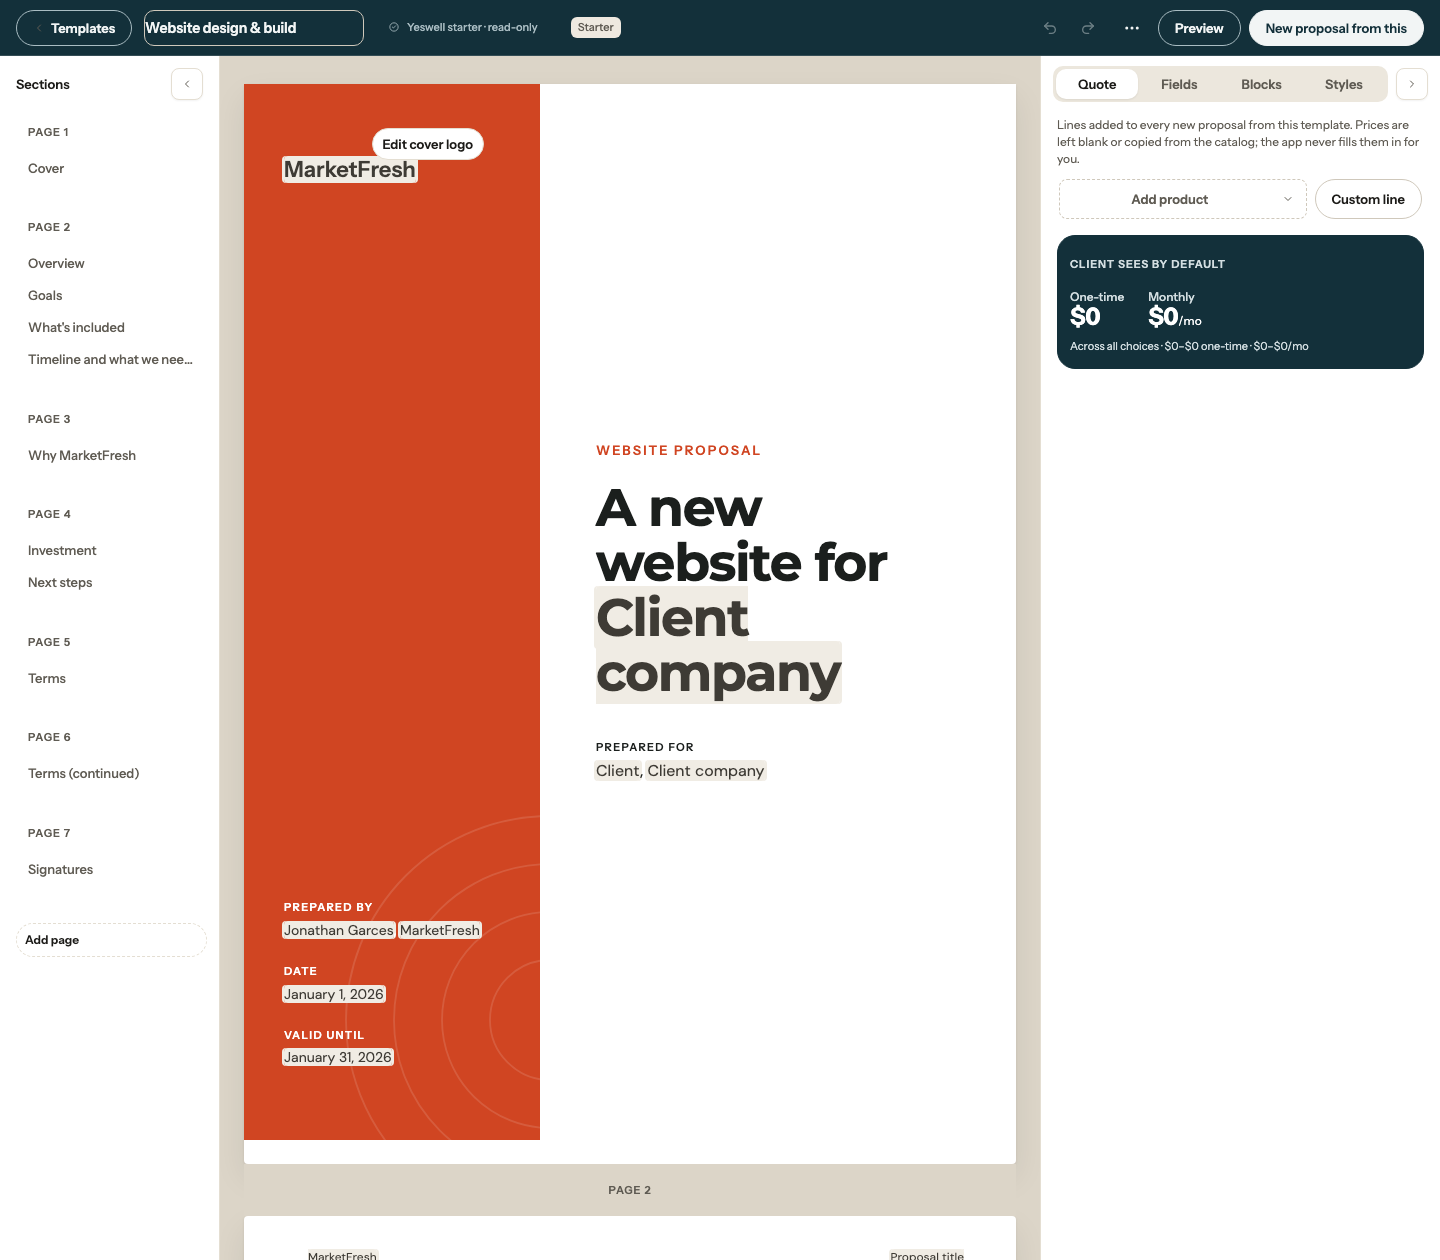
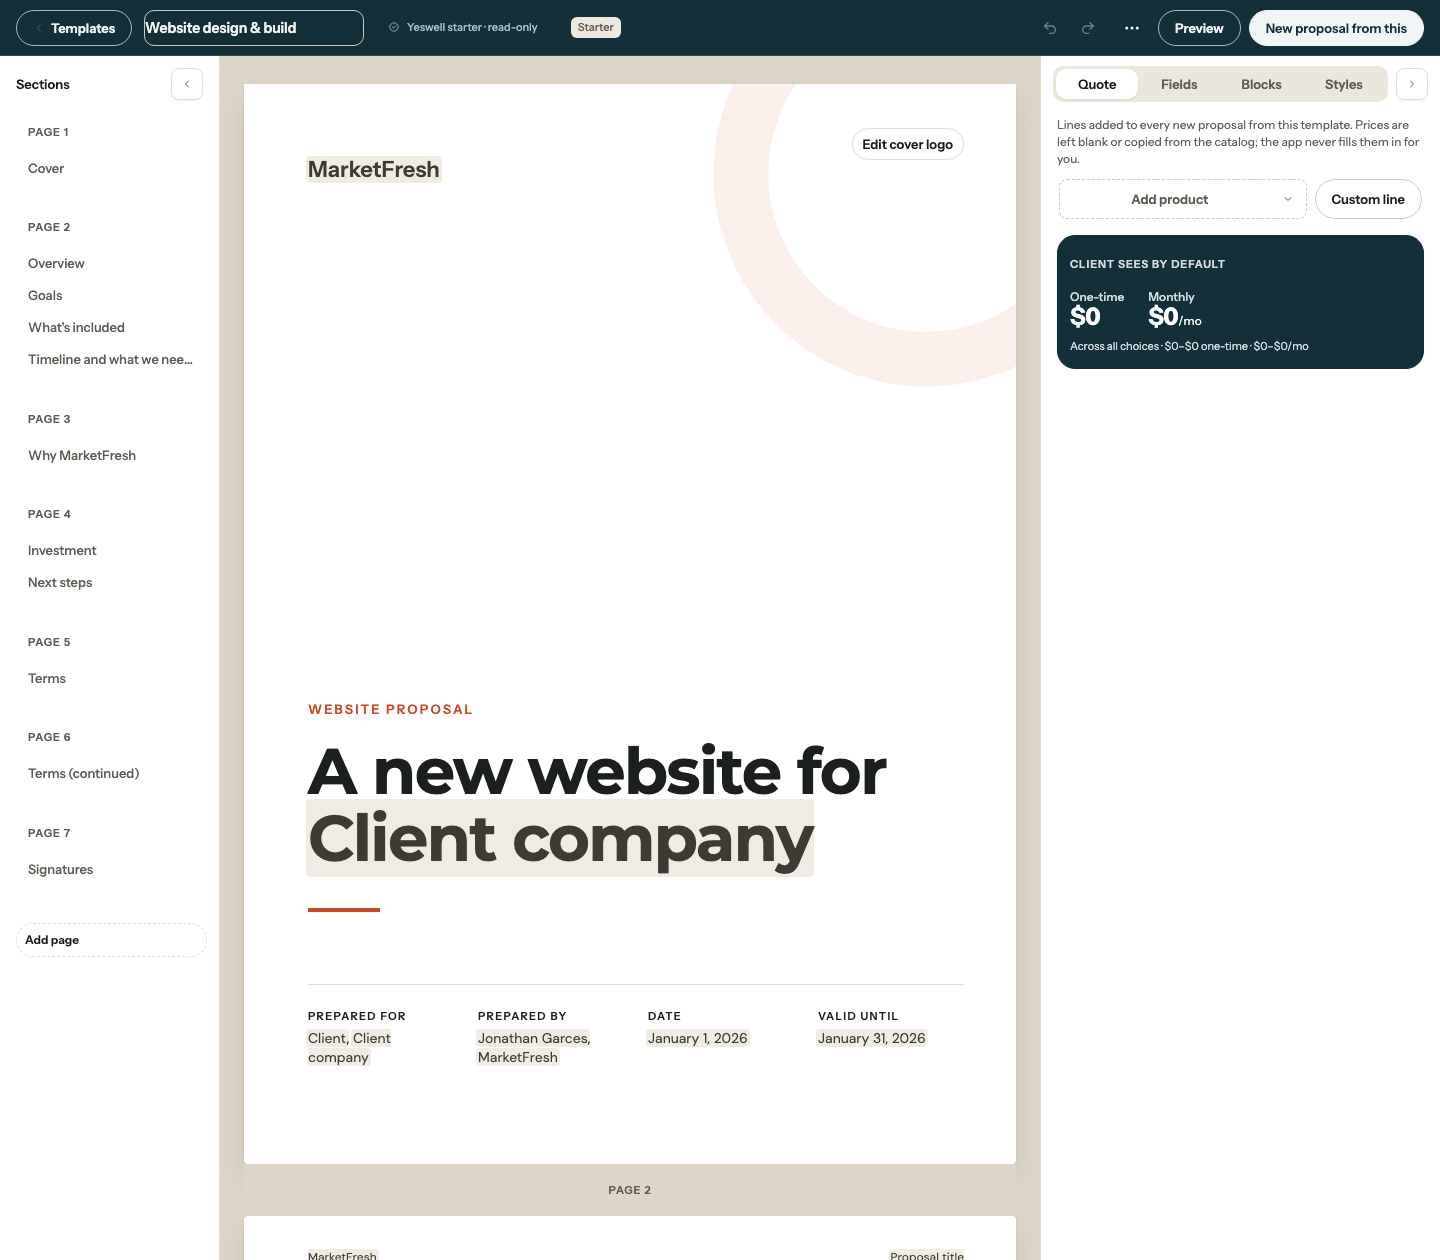
Use white Editorial ring for the Website starter

diff --git a/seed/starter-templates.ts b/seed/starter-templates.ts
@@ -19,7 +19,7 @@ export const starterCoverLayouts: Partial<
   Record<string, Exclude<NonNullable<Cover["layout"]>, "custom">>
 > = {
   "general-project": "editorial",
-  "website-design-build": "split",
+  "website-design-build": "editorial",
   "local-visibility-seo": "side-photo",
   "website-ai-audit": "bold",
   "monthly-marketing": "centered",
@@ -191,6 +191,32 @@ export function starterTemplates(
           };
         })
       : [];
+    const cover = applyCoverLayout(
+      {
+        logo_mode: "brand",
+        workspace: "{{workspace.name}}",
+        eyebrow: source.eyebrow,
+        byline: "{{proposal.validity}}",
+        elements: [
+          coverLine("logo"),
+          coverLine("eyebrow", source.eyebrow),
+          coverLine("title", source.title),
+          coverLine(
+            "prepared_for",
+            "Prepared for {{client.full_name}}, {{client.company}}",
+          ),
+          coverLine(
+            "byline",
+            "Prepared by {{sender.name}}, {{workspace.name}}",
+          ),
+          coverLine("extra", "{{proposal.date}}", "date"),
+          coverLine("extra", "{{proposal.validity}}", "validity"),
+        ],
+      },
+      starterCoverLayouts[source.key] ?? "editorial",
+    );
+    if (source.key === "website-design-build" && cover.background)
+      cover.background.graphic = "ring";
     return {
       id,
       name: source.name,
@@ -200,30 +226,7 @@ export function starterTemplates(
       active: true,
       signature_heading_defaulted: true,
       header_footer: defaultTemplateBands(),
-      cover: applyCoverLayout(
-        {
-          logo_mode: "brand",
-          workspace: "{{workspace.name}}",
-          eyebrow: source.eyebrow,
-          byline: "{{proposal.validity}}",
-          elements: [
-            coverLine("logo"),
-            coverLine("eyebrow", source.eyebrow),
-            coverLine("title", source.title),
-            coverLine(
-              "prepared_for",
-              "Prepared for {{client.full_name}}, {{client.company}}",
-            ),
-            coverLine(
-              "byline",
-              "Prepared by {{sender.name}}, {{workspace.name}}",
-            ),
-            coverLine("extra", "{{proposal.date}}", "date"),
-            coverLine("extra", "{{proposal.validity}}", "validity"),
-          ],
-        },
-        starterCoverLayouts[source.key] ?? "editorial",
-      ),
+      cover,
       content,
       default_quote: [],
       default_items,

diff --git a/e2e/template-covers-delete.spec.ts b/e2e/template-covers-delete.spec.ts
@@ -33,7 +33,15 @@ test("all seven starter covers open with their designed layout and existing text
     await expect(
       cover.getByText("Prepared for", { exact: true }),
     ).toBeVisible();
-    if (process.env.CAPTURE_STARTER_COVERS === "1") {
+    if (template.starter_key === "website-design-build") {
+      await expect(cover.locator(".cover-decoration")).toHaveCSS(
+        "background-color",
+        "rgb(255, 255, 255)",
+      );
+      await expect(cover.locator('[data-cover-graphic="ring"]')).toBeVisible();
+    }
+    const capture = process.env.CAPTURE_STARTER_COVERS;
+    if (capture === "1" || capture === template.starter_key) {
       await mkdir(evidence, { recursive: true });
       await page.evaluate(() => document.fonts.ready);
       await page.screenshot({

diff --git a/tests/starter-templates.test.ts b/tests/starter-templates.test.ts
@@ -33,13 +33,17 @@ it("seven exact starters, order, covers, renumbered terms and both signatures wi
   ]);
   expect(templates.map((t) => t.cover?.layout)).toEqual([
     "editorial",
-    "split",
+    "editorial",
     "editorial",
     "side-photo",
     "bold",
     "centered",
     "editorial",
   ]);
+  expect(templates[1].cover?.background).toMatchObject({
+    type: "plain",
+    graphic: "ring",
+  });
   for (const t of templates) {
     expect(t.active).toBe(true);
     expect(t.default_items).toEqual([]);

diff --git a/DECISIONS.md b/DECISIONS.md
@@ -659,7 +659,7 @@ PR #86 owner review: watermarks keep their transparent source shape, clipped onl
 
 ## Starter cover layouts and template deletion — November 10, 2026
 
-Starter covers use Editorial for General project, Website care and Social media, Split panel for Website design, Photo beside title for Local visibility, Full color for the Audit, and Centered minimal for Monthly marketing. The cover uses the workspace brand and existing text. Apply the cover migration before deploying the matching starter seed. It changes only exact shipped plain covers in MarketFresh and updates the new-workspace seed. Customized covers and proposal snapshots are outside the migration.
+Starter covers use Editorial for General project, Website care and Social media, white Editorial with the ring for Website design, Photo beside title for Local visibility, Full color for the Audit, and Centered minimal for Monthly marketing. The cover uses the workspace brand and existing text. Apply the cover migration before deploying the matching starter seed. It changes only exact shipped plain covers in MarketFresh and updates the new-workspace seed. Customized covers and proposal snapshots are outside the migration.
 
 Super admins can delete an ordinary template through its card menu after confirmation. Proposals keep their stored copy. Starters are protected by the server and still offer Hide from new proposals. The catch-all API exports DELETE so the application can reach the authorized handler.
 

diff --git a/docs/screenshots/template-covers/README.md b/docs/screenshots/template-covers/README.md
@@ -5,7 +5,7 @@ The captures use MarketFresh’s palette and fonts with the workspace-name logo 
 | Template | Layout | Capture |
 | --- | --- | --- |
 | General project proposal | Editorial | [Cover](general-project-1440.png) |
-| Website design & build | Split panel | [Cover](website-design-build-1440.png) |
+| Website design & build | White Editorial with ring | [Cover](website-design-build-1440.png) |
 | Website care & hosting plan | Editorial | [Cover](website-care-hosting-1440.png) |
 | Local visibility (SEO) retainer | Photo beside title | [Cover](local-visibility-seo-1440.png) |
 | Website & AI search readiness audit | Full color | [Cover](website-ai-audit-1440.png) |
